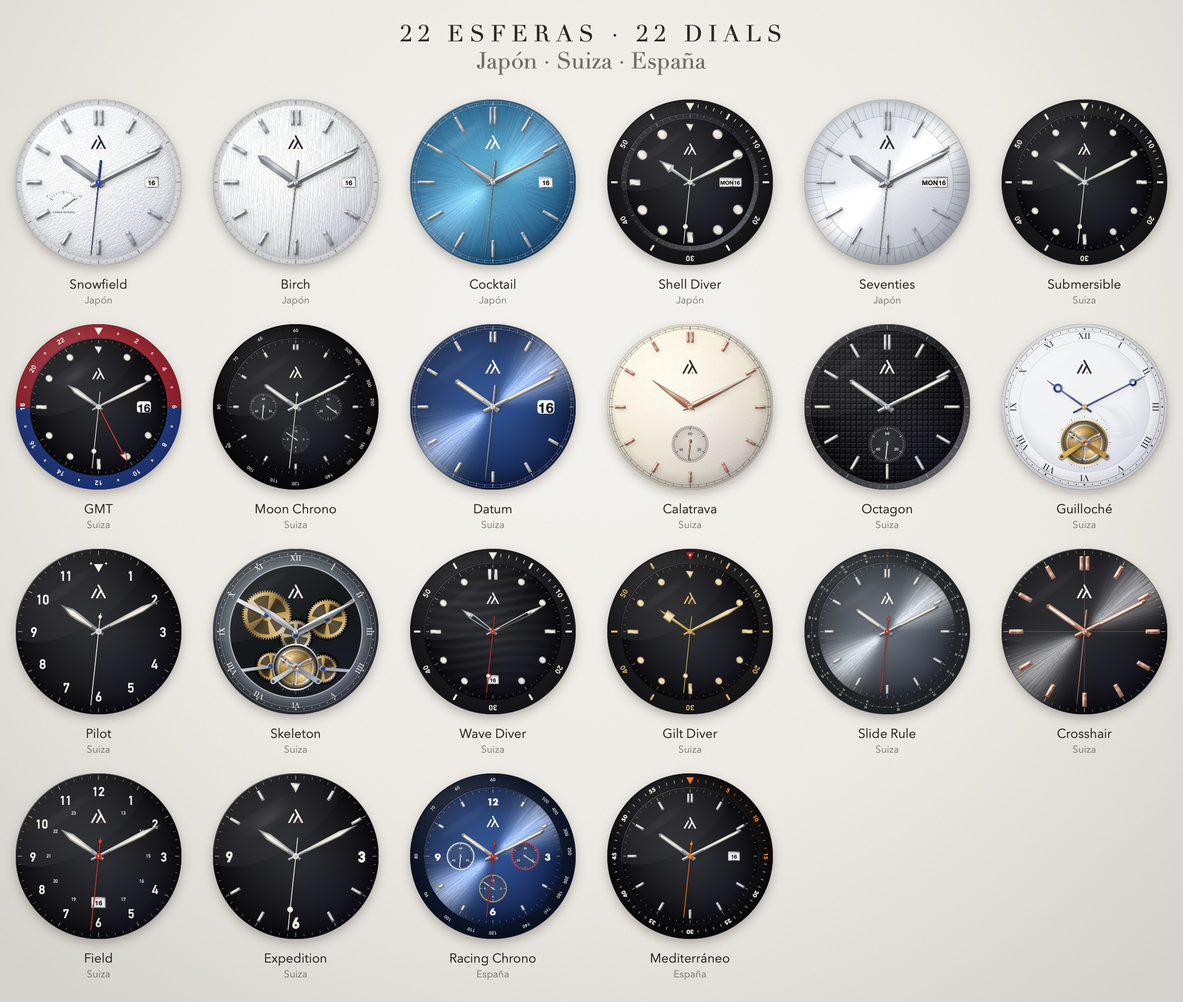
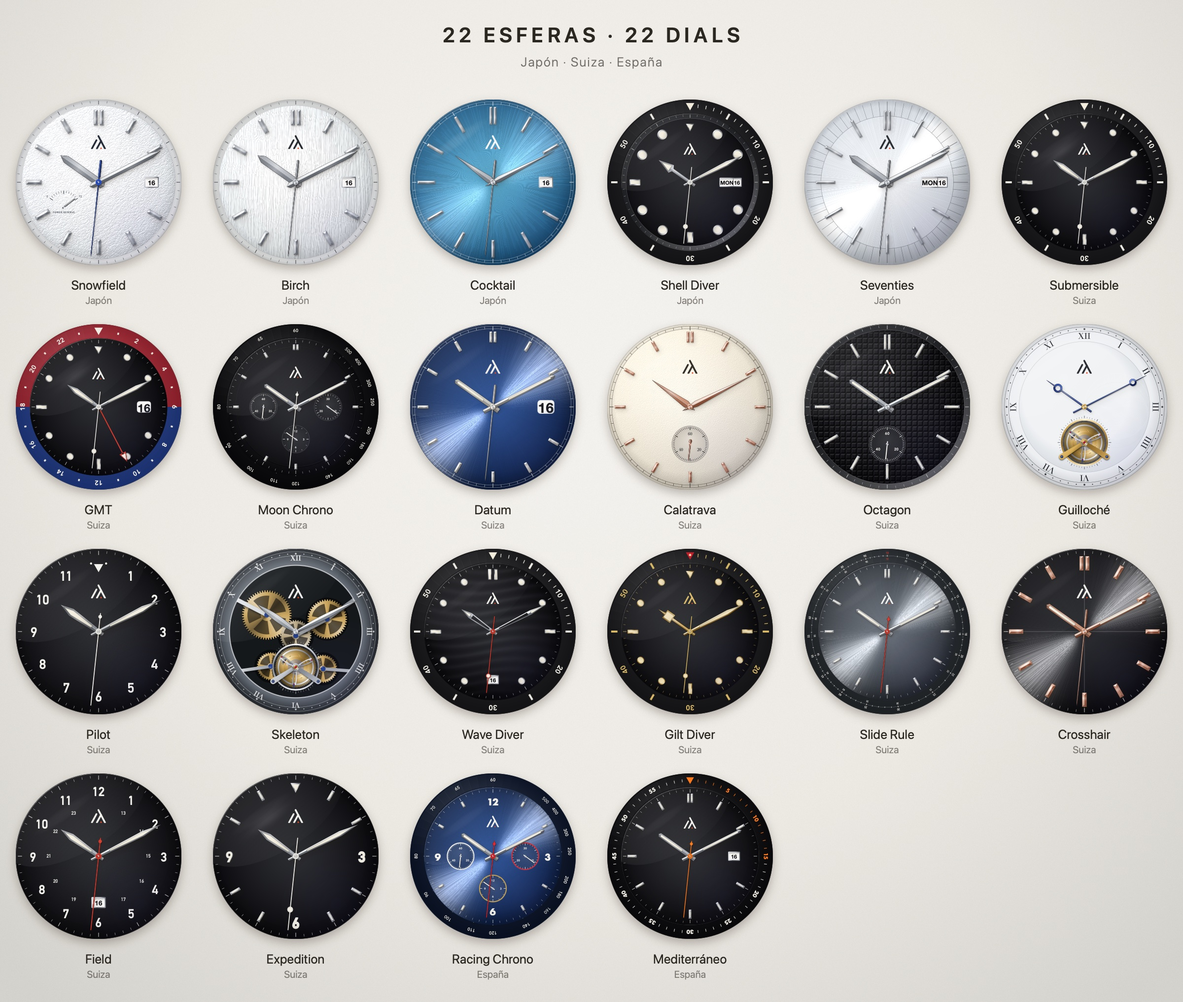
README images: modern sans-serif for titles and captions

diff --git a/docs/poster.html b/docs/poster.html
@@ -16,8 +16,10 @@
   (function () {
     'use strict';
     const E = TourbillonEngine;
-    const SERIF = '"Didot","Bodoni 72",serif';
-    const SANS = '"Avenir Next","Helvetica Neue",sans-serif';
+    // modern type for the page itself; the dials keep their own lettering
+    const DISPLAY = '600 system-ui,"SF Pro Display","Avenir Next",sans-serif';
+    const LIGHT = '300 system-ui,"SF Pro Display","Avenir Next",sans-serif';
+    const SANS = 'system-ui,"SF Pro Text","Avenir Next",sans-serif';
     const at = (h, m, s) => { const t = new Date(); t.setHours(h, m, s || 31, 0); return t; };
     const cfgOf = (model, extra) => Object.assign({}, E.DEFAULTS, E.MODELS[model].defaults, { model, light: 'fixed', emblem: 'printed' }, extra || {});
     const canvas = (w, h) => { const c = document.createElement('canvas'); c.width = w; c.height = h; return c; };
@@ -36,7 +38,10 @@
     }
     function label(ctx, text, x, y, size, color, font, spacing) {
       ctx.fillStyle = color;
-      ctx.font = `${size}px ${font || SANS}`;
+      // a family may carry its weight up front ("600 system-ui,…"); canvas wants "weight size family"
+      const f = font || SANS;
+      const m = /^(\d{3}|italic)\s+(.*)$/.exec(f);
+      ctx.font = m ? `${m[1]} ${size}px ${m[2]}` : `${size}px ${f}`;
       ctx.textAlign = 'center';
       ctx.textBaseline = 'middle';
       if (spacing) spaced(ctx, text, x, y, spacing); else ctx.fillText(text, x, y);
@@ -47,8 +52,8 @@
       hero(w = 2400, h = 1260) {
         const c = canvas(w, h), ctx = c.getContext('2d');
         scene(ctx, w, h, true, 'spotlight', w / 2, h * 0.64, h * 0.42);
-        label(ctx, 'ATRAPANDO EL TIEMPO', w / 2, h * 0.11, h * 0.062, '#f2efe8', SERIF, h * 0.016);
-        label(ctx, '× Caradekid', w / 2, h * 0.19, h * 0.032, 'rgba(242,239,232,0.7)', `italic ${SERIF}`);
+        label(ctx, 'ATRAPANDO EL TIEMPO', w / 2, h * 0.11, h * 0.056, '#f2efe8', DISPLAY, h * 0.012);
+        label(ctx, '× Caradekid', w / 2, h * 0.185, h * 0.03, 'rgba(242,239,232,0.7)', LIGHT, h * 0.004);
         const t = at(10, 10);
         E.renderWatch(ctx, w * 0.17, h * 0.63, h * 0.235, cfgOf('seventies'), false, t);
         E.renderWatch(ctx, w * 0.83, h * 0.63, h * 0.235, cfgOf('cocktail'), false, t);
@@ -63,8 +68,8 @@
         const head = 170, foot = 40, w = cols * cell, h = head + rows * (cell + 56) + foot;
         const c = canvas(w, h), ctx = c.getContext('2d');
         scene(ctx, w, h, false, 'studio', w / 2, h * 0.4, w * 0.35);
-        label(ctx, `${ids.length} ESFERAS · ${ids.length} DIALS`, w / 2, 70, 46, '#2a2620', SERIF, 12);
-        label(ctx, 'Japón · Suiza · España', w / 2, 125, 28, 'rgba(42,38,32,0.65)', `italic ${SERIF}`);
+        label(ctx, `${ids.length} ESFERAS · ${ids.length} DIALS`, w / 2, 70, 42, '#2a2620', DISPLAY, 8);
+        label(ctx, 'Japón · Suiza · España', w / 2, 125, 26, 'rgba(42,38,32,0.65)', LIGHT, 2);
         const t = at(10, 10);
         ids.forEach((id, i) => {
           const x = (i % cols) * cell + cell / 2, y = head + Math.floor(i / cols) * (cell + 56) + cell / 2;
@@ -83,11 +88,11 @@
         const t = at(10, 10);
         scene(hc, w / 2, h, false, 'studio', w / 4, h * 0.5, h * 0.36);
         E.renderWatch(hc, w / 4, h * 0.52, h * 0.36, cfgOf('snowfield'), false, t);
-        label(hc, 'MODO CLARO', w / 4, h * 0.075, 34, '#2a2620', SERIF, 8);
+        label(hc, 'MODO CLARO', w / 4, h * 0.075, 30, '#2a2620', DISPLAY, 6);
         ctx.drawImage(half, 0, 0);
         scene(hc, w / 2, h, true, 'studio', w / 4, h * 0.5, h * 0.36);
         E.renderWatch(hc, w / 4, h * 0.52, h * 0.36, cfgOf('snowfield'), true, t);
-        label(hc, 'MODO OSCURO', w / 4, h * 0.075, 34, '#f2efe8', SERIF, 8);
+        label(hc, 'MODO OSCURO', w / 4, h * 0.075, 30, '#f2efe8', DISPLAY, 6);
         ctx.drawImage(half, w / 2, 0);
         return png(c);
       },
@@ -100,7 +105,7 @@
         times.forEach(([hh, mm, name], i) => {
           const x = w * (0.125 + i * 0.25), y = h * 0.45;
           E.renderWatch(ctx, x, y, h * 0.33, cfgOf('datum', { light: 'time' }), hh >= 21, at(hh, mm, 20));
-          label(ctx, name, x, h * 0.88, 34, '#2a2620', SERIF);
+          label(ctx, name, x, h * 0.88, 32, '#2a2620', DISPLAY);
           label(ctx, `${hh}:${String(mm).padStart(2, '0')}`, x, h * 0.94, 24, 'rgba(42,38,32,0.55)', SANS);
         });
         return png(c);
@@ -128,7 +133,7 @@
           ctx.clip();
           ctx.drawImage(tile, x, y);
           ctx.restore();
-          label(ctx, name, x + size / 2, y + size + 46, 30, 'rgba(242,239,232,0.85)', SERIF);
+          label(ctx, name, x + size / 2, y + size + 46, 28, 'rgba(242,239,232,0.85)', DISPLAY);
         });
         return png(c);
       },
